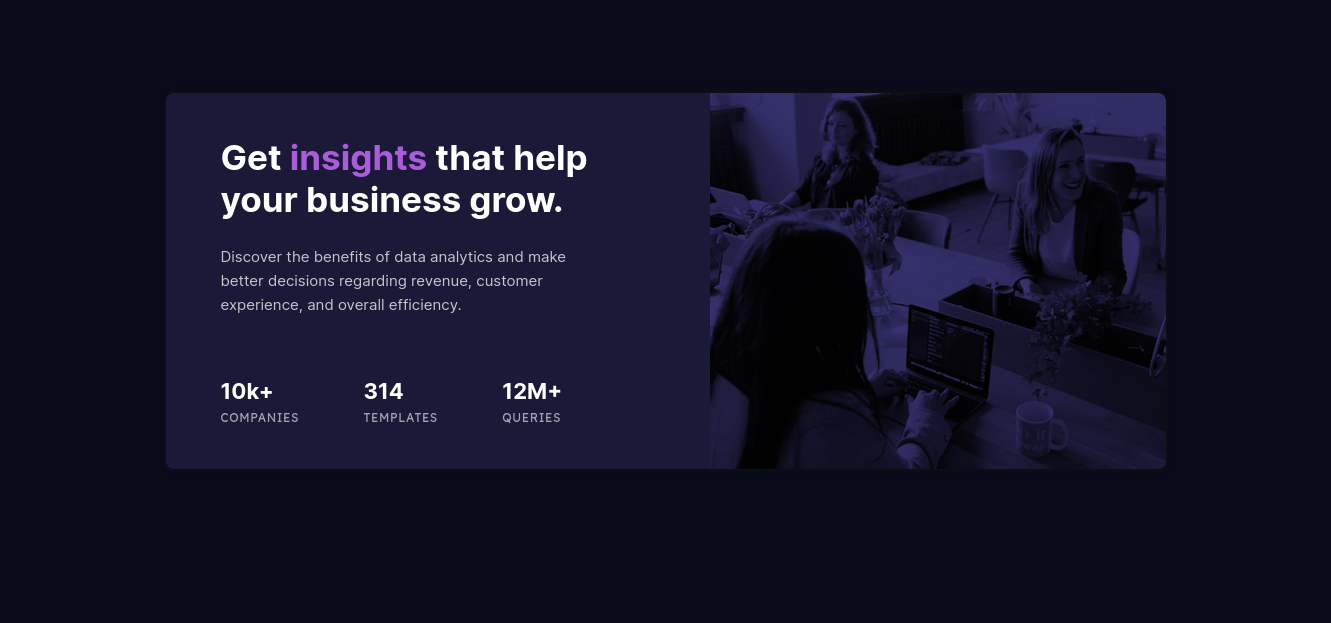
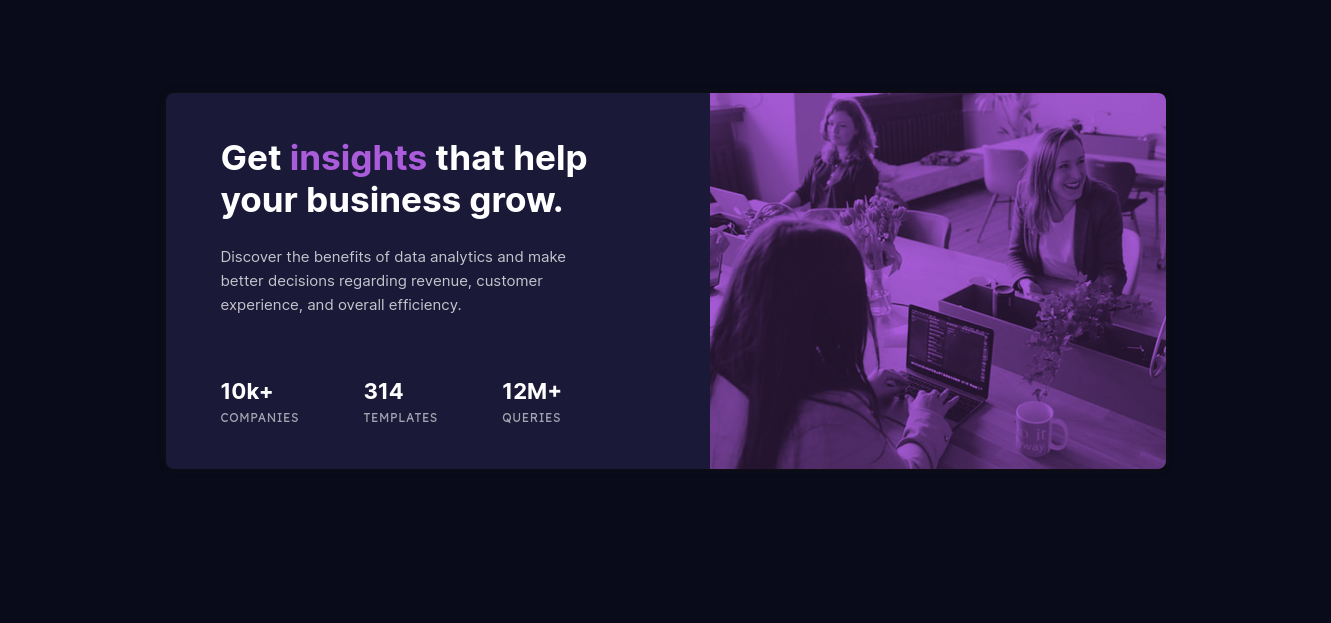
fixed overlay color and updated screenshots

Changed region(s): [[0.5237, 0.122, 0.8933, 0.7624]]

diff --git a/style.css b/style.css
@@ -91,16 +91,14 @@ html {
 .stats-card .right-content {
   flex: 1.2;
   display: flex;
-  z-index: 1;
   background: var(--primary-accent);
-  mix-blend-mode: overlay;
-  border-bottom-right-radius: 8px;
   border-top-right-radius: 8px;
+  border-bottom-right-radius: 8px;
 }
 
 .right-content img {
-  border-bottom-right-radius: 8px;
-  border-top-right-radius: 8px;
+  mix-blend-mode: multiply;
+  opacity: 0.8;
 }
 
 @media (max-width: 768px) {
@@ -140,6 +138,9 @@ html {
 
   .stats-card .right-content {
     width: 100%;
+    border-top-left-radius: 8px;
+    border-top-right-radius: 8px;
+    border-bottom-right-radius: 0px;
   }
 
   .right-content img {
